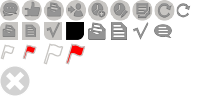
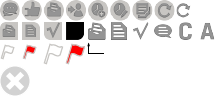
#26 add arrow in comment in post list

diff --git a/web-app/less/app-posts.less b/web-app/less/app-posts.less
@@ -173,12 +173,15 @@
   }
   .comment {
     border-top: 1px solid @grayLight;
-    padding: 4px 0 4px 20px;
+    padding: 4px 0 4px 25px;
   }
   .content {
     margin: 0 @rightMargin 0 @leftMargin;
     min-height: 80px;
     padding: 10px 20px 10px 0;
+  }
+  .icon-comment-arrow {
+    margin-left: -20px;
   }
   .init-post {
     display: block;

diff --git a/web-app/tmpl/posts.html b/web-app/tmpl/posts.html
@@ -21,6 +21,7 @@
               </div>
               {{#comment}}
               <div class="comment">
+                <i class="icon-comment-arrow"></i>
                 <a data-url="{{voiceURL}}" target="_blank" class="user-name" href="javascript:;">
                   {{voiceName}}
                 </a>

diff --git a/web-app/less/icons.less b/web-app/less/icons.less
@@ -46,7 +46,8 @@
 
 .icon-case,
 .icon-page,
-.icon-read {
+.icon-read,
+.icon-comment-arrow {
   display: inline-block;
   height: 18px;
   width: 18px;
@@ -60,6 +61,9 @@
 }
 .icon-read {
   background-position: -132px -22px;
+}
+.icon-comment-arrow {
+  background-position: -86px -43px;
 }
 
 
